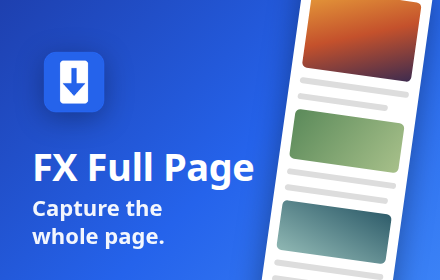
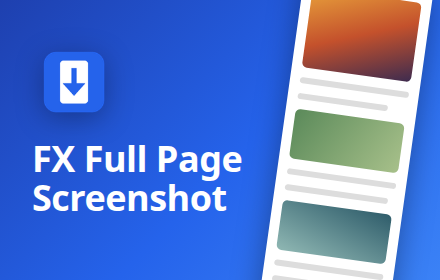
Rename extension to FX Full Page Screenshot
Clearer, more descriptive title per Chrome Web Store listing guidelines.

Changed region(s): [[0.0591, 0.5143, 0.5909, 0.8857]]

diff --git a/background.js b/background.js
@@ -11,7 +11,7 @@ const busyTabs = new Set();
 let lastCaptureAt = 0;
 
 chrome.action.onClicked.addListener((tab) => {
-  captureTab(tab).catch((err) => console.error('[FX Full Page]', err));
+  captureTab(tab).catch((err) => console.error('[FX Full Page Screenshot]', err));
 });
 
 async function run(tabId, func, args = []) {
@@ -141,7 +141,7 @@ async function captureTab(tab) {
       openerTabId: tabId,
     });
   } catch (err) {
-    console.error('[FX Full Page]', err);
+    console.error('[FX Full Page Screenshot]', err);
     await setBadge(tabId, '!', '#dc2626');
     try {
       await chrome.action.setTitle({ tabId, title: chrome.i18n.getMessage('errCaptureFailed', [err.message]) });

diff --git a/editor.html b/editor.html
@@ -2,7 +2,7 @@
 <html>
 <head>
   <meta charset="utf-8">
-  <title>FX Full Page</title>
+  <title>FX Full Page Screenshot</title>
   <link rel="icon" href="icons/icon32.png">
   <link rel="stylesheet" href="editor.css">
   <script type="module" src="editor.js"></script>

diff --git a/PRIVACY.md b/PRIVACY.md
@@ -1,12 +1,12 @@
-# FX Full Page – Privacy Policy
+# FX Full Page Screenshot – Privacy Policy
 
 _Last updated: November 8, 2026_
 
-FX Full Page is a browser extension that captures a full-page screenshot of the current tab and lets you edit it.
+FX Full Page Screenshot is a browser extension that captures a full-page screenshot of the current tab and lets you edit it.
 
 ## Data collection
 
-**FX Full Page does not collect, transmit, sell or share any personal data.**
+**FX Full Page Screenshot does not collect, transmit, sell or share any personal data.**
 
 - Screenshots are created locally in your browser and stored only on your device (in the extension's IndexedDB storage). Only the 10 most recent captures are kept; older ones are deleted automatically.
 - Each stored capture contains the image, the page title and the page URL, so they can be shown in the editor. This information never leaves your device.

diff --git a/README.md b/README.md
@@ -1,4 +1,4 @@
-# FX Full Page
+# FX Full Page Screenshot
 
 A Chrome extension (Manifest V3) that captures an entire web page and opens it in a built-in editor.
 
